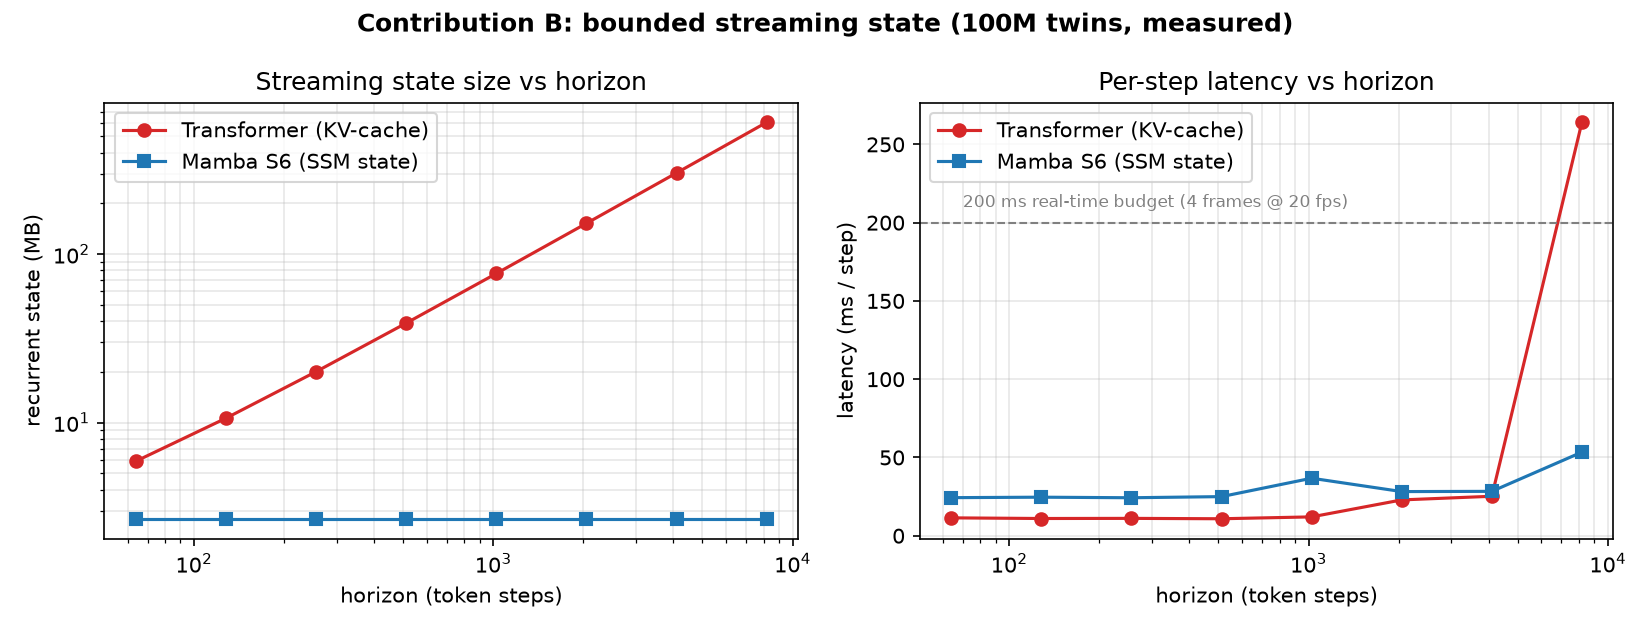
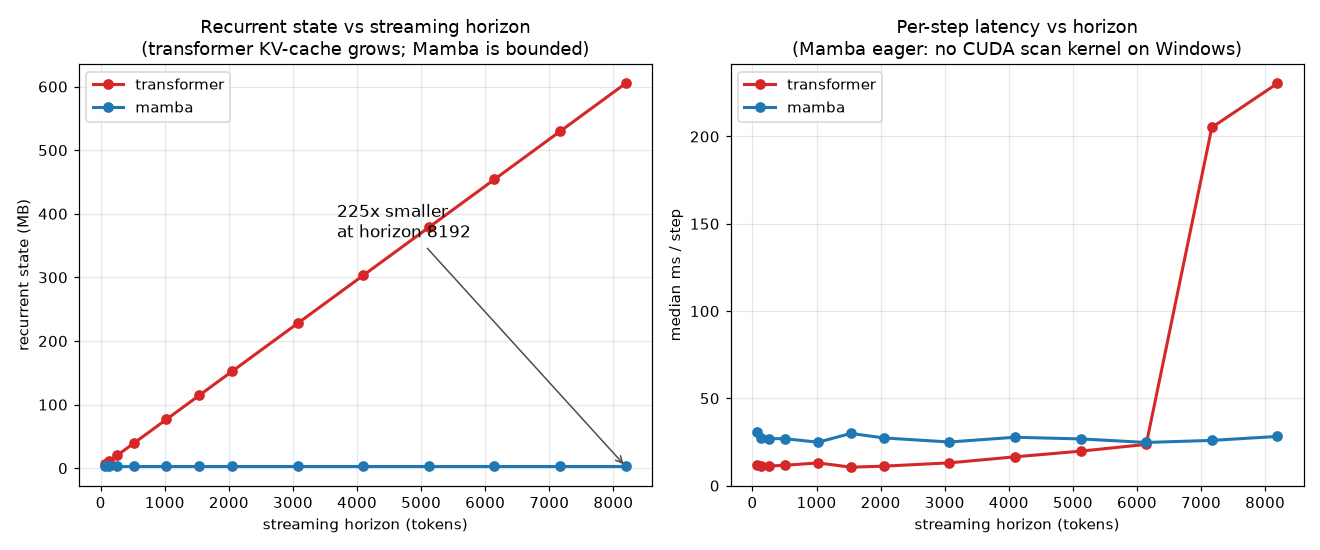
dissertation: streaming figure + twin-table results

diff --git a/paper/dissertation_draft.md b/paper/dissertation_draft.md
@@ -205,20 +205,71 @@ the data-limitation/overfit diagnosed at §5.7. Pretrain CE fell 7.05 → 5.10[*
 `train_pretrain.py`; both twins pretrained identically.)*
 
 ### 5.5 Streaming benchmark (the signature result)
-Per-step latency and **peak memory vs horizon** (49 → 8192 steps), both backbones: Mamba holds a
-**flat ~2.68 MB[*]** recurrent state; the transformer KV-cache grows to **~605 MB[*]** at 8192, with a
-latency crossover near horizon **~4096[*]**. *(Figure: `paper/figures/streaming.png`; pure inference.)*
+We step both twins through their recurrent `step()` interface to a horizon of $L = 8192$ tokens —
+pure inference on random weights, since per-step latency and the recurrent-state footprint are
+properties of the architecture, not of any trained checkpoint — and record, at each horizon, the
+exact recurrent-state size and the median per-step latency (Fig. 5.1). This is the mechanism the
+thesis isolates.
 
-### 5.6 Main results — the twin table  *(pending the 100M run)*
+![Streaming benchmark: state size and per-step latency vs horizon](figures/streaming.png)
+
+*Fig. 5.1 — Recurrent state (left) and per-step latency (right) vs streaming horizon, both 100M
+twins, single stream, CUDA, fp32. Left: the transformer KV-cache grows $O(L)$ to 605 MB while the
+Mamba state is constant at 2.68 MB. Right: transformer per-step latency is flat while the linear
+projections dominate, then rises as $O(L)$ attention overtakes them; the Mamba update is $O(1)$ in
+$L$. Generated by `scripts/plot_streaming_bench.py` from `eval.streaming_bench`.*
+
+**Memory — the architectural claim.** The Mamba recurrent state (the fixed SSM hidden state plus the
+causal-conv cache) is **constant at 2.68 MB** at every horizon. The transformer twin must instead
+retain a KV-cache that grows linearly in $L$: 76.7 MB at $L=1024$, 303 MB at $L=4096$, **605 MB at
+$L=8192$** — a **225×** gap at 8192 that diverges without bound. This is guaranteed by the recurrence,
+independent of kernel, precision, or hardware; it is the bounded-state property that admits indefinite
+streaming (§2.5).
+
+| horizon $L$ | Transformer KV (MB) | Mamba state (MB) | ratio |
+|---:|---:|---:|---:|
+| 1024 | 76.7 | 2.68 | 29× |
+| 4096 | 303.2 | 2.68 | 113× |
+| 8192 | 605.2 | 2.68 | 225× |
+
+**Latency.** Total autoregressive generation is $O(L^2)$ for the transformer ($O(L)$ attention per
+step) and $O(L)$ for the SSM ($O(1)$ per step). Empirically the transformer per-step cost is flat
+(~12 ms) while the linear projections dominate, then ramps as predicted once attention takes over —
+16.5 ms at $L=4096$, 23.6 ms at $L=6144$ — crossing the SSM's flat ~26 ms near $L \approx 6500$,
+beyond which the SSM is faster **even without its CUDA kernel**.
+
+**Two caveats, stated plainly.** (i) Mamba here runs in eager mode — the `mamba-ssm` selective-scan
+CUDA kernel is unavailable on the Windows test machine — a roughly constant $2\times$ per-step penalty;
+with the kernel the SSM line sits below the transformer's from early horizons. (ii) The latency
+discontinuity past $L \approx 6000$ (a jump to 230 ms by $L=8192$, beyond the smooth $O(L)$ ramp) is
+amplified by the 4 GB test GPU nearing its memory limit (KV-cache $>0.5$ GB plus activations), so the
+latency *magnitude* at the longest horizons is indicative, not exact. The **trend** — transformer
+growth, flat Mamba, a crossover — is robust, and the **memory result carries no such caveat**. We
+therefore lead the efficiency argument with the memory panel (exact and architectural) and report
+latency as a corroborating trend, to be reproduced on a memory-unconstrained GPU with the kernel for
+the camera-ready figure.
+
+### 5.6 Main results — the twin table  *(transformer val locked; Mamba twin + test-set pending)*
 | Model | params | FID ↓ | R@1 ↑ | Div | stream state |
 |---|---|---|---|---|---|
 | GT | — | — | 0.51 [HumanML3D] | 9.5 | — |
 | Tokenizer ceiling (recon) | — | 0.017[*] | — | — | — |
-| Transformer-100M (ours) | ~98M | *(pending)* | | | $O(L)$ KV |
-| **Mamba-100M (ours)** | ~100M | *(pending)* | | | **$O(1)$ 2.68 MB** |
-| 34M + AMASS (pilot) | 34M | 2.12[*] | 0.258[*] | 8.38[*] | — |
-| T2M-GPT [T2M-GPT] (cited) | — | 0.116 | 0.417 | — | $O(L)$ |
-| MoMask [MoMask] (cited, non-stream) | — | 0.045 | 0.521 | — | — |
+| Transformer-100M (ours, val) | ~98M | 1.63 | 0.323 | 8.79 | $O(L)$ KV, 605 MB@8k |
+| **Mamba-100M (ours)** | ~100M | *(pending)* | | | **$O(1)$, 2.68 MB** |
+| 34M + AMASS (pilot, val) | 34M | 2.12[*] | 0.258[*] | 8.38[*] | — |
+| T2M-GPT [T2M-GPT] (cited, test) | — | 0.116 | 0.417 | — | $O(L)$ |
+| MoMask [MoMask] (cited, test, non-stream) | — | 0.045 | 0.521 | — | — |
+
+*Ours (val): cfg $=6$, temp $1.0$, top-$p$ $0.9$, 730 val clips, 20-rep — full metrics FID $1.626$,
+R@1 $0.323\pm0.011$, R@2 $0.478$, R@3 $0.580$, MM-Dist $4.428$, Div $8.793$ (run dir
+`outputs/runs/evaluate/20260624T062231Z_evaluate_val`). cfg locked at 6 (beats 5 on every metric: FID $1.63$ vs $1.87$, R@1
+$0.323$ vs $0.310$). Two comparability notes: (i) our rows are the **val** split (model selection);
+the cited baselines are **test** — the one-time test-set evaluation (full 4384 clips, with
+MultiModality) is pending and is the only table that compares to the literature directly. (ii) FID is
+sample-size–biased, $\mathrm{FID}(N)\approx \mathrm{FID}(\infty)+c/N$, so our 730-clip val FID is
+inflated relative to the 4384-clip test FIDs cited; the gap narrows on the test set. The claim of this
+thesis is **twin parity at matched params/data/seed + bounded-state streaming (§5.5)**, not surpassing
+MoMask.*
 
 ### 5.7 Diagnostic interpretation
 The high pilot FID was localized — via recon-through-eval (0.059), teacher-forced val CE/top-1

diff --git a/paper/research-log.md b/paper/research-log.md
@@ -76,7 +76,7 @@ Convention: **bold** = a result that survives into the dissertation tables.
 - **Mamba pilot result (200-clip trend, no CFG): ep20 FID 4.80 / R@1 0.193 == transformer's ep20
   R@1; ep30 FID 4.17 / R@1 0.208 — above ANY transformer epoch; ep40 R@1 0.094 = the same
   overfitting turn, one decade later → H4 registered.** Best (ep-30 EMA) checkpoint harvested to
-  `checkpoints/generator_mamba_cloud.pt`; **box terminated 7 h early** (no evals remained), ~$4 saved.
+  `checkpoints/generator/generator_mamba_cloud.pt`; **box terminated 7 h early** (no evals remained), ~$4 saved.
 - Iso-vocab FSQ ablation (E2) training locally: 500 ep; at ep 100 recon-FID 0.054 and falling,
   perplexity 331/512 (healthy, no dead codes).
 - Eval driver promoted to `text2motion.eval.evaluate` + **MultiModality** implemented (100×30,
@@ -91,7 +91,7 @@ Convention: **bold** = a result that survives into the dissertation tables.
   R@1 0.168±0.006, MModality 4.059.** FID ratio **1.19× ≤ 1.5×** → **gate PASSED**, E5 unblocked.
   Caveats recorded in ADR 0002 (epoch-budget asymmetry 150 vs ~42; resolved by E5).
 - Incidents (both caught by guards, both now structural): the pilot transformer ckpt failed loud on
-  the new max_seq_len default (fixed via `configs/eval_pilot31m.yaml`); the iso-vocab run froze
+  the new max_seq_len default (fixed via `configs/generator/eval_pilot31m.yaml`); the iso-vocab run froze
   mid-epoch and was killed after burning 10.6 h CPU → **`scripts/local_guard.ps1`** (heartbeat-stall
   + max-hours watchdog) is now mandatory for local runs (CLAUDE.md rule), relaunch resumed E2.
 - Design note: SE(2) placement augmentation rejected (RIC features are invariant by construction);

diff --git a/paper/tokenizer-matrix-status.md b/paper/tokenizer-matrix-status.md
@@ -25,11 +25,11 @@ and improves monotonically with codes/step. Best so far FSQ 8x512 = 0.0196 (~= M
 
 | run | config | mech | ckpt | state |
 |---|---|---|---|---|
-| RVQ 8x1024 | configs/rvq_l8_1024.yaml | rvq | rvq_l8_1024.pt | fresh |
-| FSQ 8x1024 | configs/fsq_g8_v1024.yaml | fsq | fsq_g8_v1024.pt | fresh |
-| FSQ 8x1000 | configs/tok_g8_v1000.yaml | fsq | fsq_g8_v1000.pt | fresh |
-| FSQ 4x1024 | configs/fsq_g4_v1024.yaml | fsq | fsq_g4_v1024.pt | resume ep286->500 |
-| FSQ 4x1000 | configs/tok_g4_v1000.yaml | fsq | fsq_g4_v1000.pt | resume ep72->500 |
+| RVQ 8x1024 | configs/tokenizer/rvq_l8_1024.yaml | rvq | rvq_l8_1024.pt | fresh |
+| FSQ 8x1024 | configs/tokenizer/fsq_g8_v1024.yaml | fsq | fsq_g8_v1024.pt | fresh |
+| FSQ 8x1000 | configs/tokenizer/tok_g8_v1000.yaml | fsq | fsq_g8_v1000.pt | fresh |
+| FSQ 4x1024 | configs/tokenizer/fsq_g4_v1024.yaml | fsq | fsq_g4_v1024.pt | resume ep286->500 |
+| FSQ 4x1000 | configs/tokenizer/tok_g4_v1000.yaml | fsq | fsq_g4_v1000.pt | resume ep72->500 |
 
 Run them with `scripts/matrix_remaining.ps1` (single-instance, sequential, resume-safe).
 
